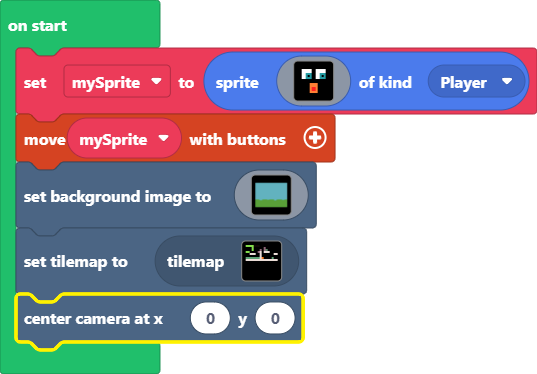
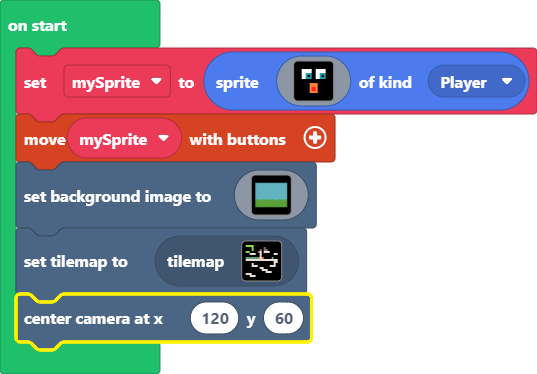
CameraCenter - testing

Changed region(s): [[0.3575, 0.7647, 0.5959, 0.9412], [0.4469, 0.7059, 0.5065, 0.7353]]

diff --git a/tilemap.g.ts b/tilemap.g.ts
@@ -8,7 +8,7 @@ namespace myTiles {
     helpers._registerFactory("tilemap", function(name: string) {
         switch(helpers.stringTrim(name)) {
             case "level1":
-            case "level1":return tiles.createTilemap(hex`1000100006060606080808000000000000000000000000060000000000050000000000000000000600000005000503000000000006060000000007010001010100000000000001010100000100000000000001010000000000000001000000000000000002020202020202010400000000020000010101010101010101010101010101010000000000000000000000000000000000000000000000000000000000000000000000000000000000000000000000000000000000000000000000000000000000000000000000000000000000000000000000000000000000000000000000000000000000000000000000000000000000000000000000000000000000000000`, img`
+            case "level1":return tiles.createTilemap(hex`1000100006060606080808000000000000000000000000060000000000050000000000000000000600000005000503000000000006060000000007010001010100000000000001010100000100000000000001010000000000000001000000000000000002020202020202010400000000020000010101010101010101010101010101010000000000000000000000000000010100000001000000000000000000000100000000010101000000000000010101000000000000000001010000000000000000000000000000000101010000000000000000000000000000000101010000000101010000000000000000000000000000000101010000000000000000000000`, img`
 . . . . . . . . . . . . . . . . 
 . . . . . . . . . . . . . . . . 
 . . . . . . . . . . . . . . . . 

diff --git a/main.ts b/main.ts
@@ -140,4 +140,4 @@ scene.setBackgroundImage(img`
     7777777777777777777777777777777777777777777777777777777777777777777777777777777777777777777777777777777777777777777777777777777777777777777777777777777777777777
     `)
 tiles.setCurrentTilemap(tilemap`level1`)
-scene.centerCameraAt(0, 0)
+scene.centerCameraAt(120, 60)
